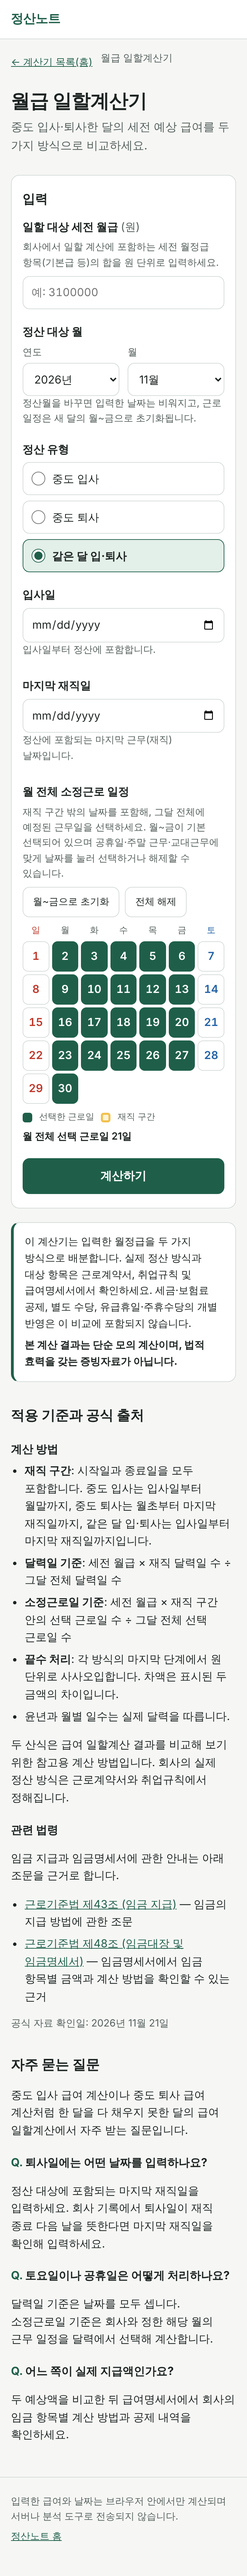
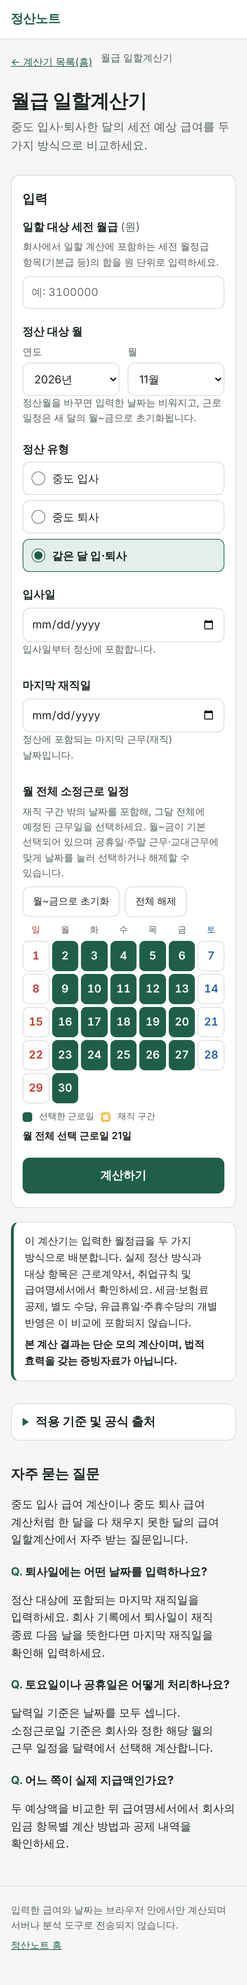
적용 기준·공식 출처를 접이식 영역으로 묶음 (두 계산기)
- '적용 기준 및 공식 출처' details 영역, 기본 접힘, 제목줄 전체 클릭·Enter·Space로 열고 닫기, 화살표 회전
- 주휴수당 결과 안의 근거 접기 영역을 같은 영역으로 통합(이번 판정 규칙은 영역 안에 표시)
- 결과표 산식·판정 이유·면책 문구는 영역 밖 유지, 재계산 시 열림 상태 유지
- 접이식 영역 검수 18항목 추가(기본 접힘·새로고침·클릭·키보드·터치·링크·재계산 유지)

Claude-Session: https://claude.ai/code/session_01Q3BcEdyQ2K5YjfFxHGZibt

diff --git a/site/assets/js/weekly-holiday-page.js b/site/assets/js/weekly-holiday-page.js
@@ -266,6 +266,7 @@ function moveWeek(delta) {
 
 function hideResult() {
   window.clearTimeout(announceTimer);
+  $('basis-body').hidden = true; // 지난 판정의 적용 규칙은 숨기되, 접이식 영역의 열림 상태는 건드리지 않는다
   if (!resultSection.hidden) {
     resultSection.hidden = true;
     resultStatus.textContent = '';
@@ -450,6 +451,7 @@ function renderResult(r) {
     needsBox.hidden = true;
     $('result-summary').textContent = '';
     $('basis-body').innerHTML = '';
+    $('basis-body').hidden = true;
     finishResult(`판정하지 않음. ${r.note}`);
     return;
   }
@@ -520,8 +522,9 @@ function renderResult(r) {
   const used = [...new Set(r.weeks.map((w) => w.rule))];
   if (r.weeks.some((w) => w.amount !== null)) used.push('AMOUNT');
   const ids = [...new Set(used.flatMap((u) => RULES[u].sources))];
+  $('basis-body').hidden = false;
   $('basis-body').innerHTML =
-    `<ul>${used.map((u) => `<li><strong>${u}</strong> ${esc(RULES[u].title)} — ${esc(sourceText(RULES[u].sources))}</li>`).join('')}</ul>` +
+    `<h3>이번 판정에 적용한 규칙</h3><ul>${used.map((u) => `<li><strong>${u}</strong> ${esc(RULES[u].title)} — ${esc(sourceText(RULES[u].sources))}</li>`).join('')}</ul>` +
     `<ul class="sources">${ids.map((id) => `<li><a href="${SOURCES[id].url}" target="_blank" rel="noopener noreferrer">${esc(SOURCES[id].label)}<span class="sr-only"> — 새 창에서 열림</span></a> — ${esc(SOURCES[id].note)}</li>`).join('')}</ul>` +
     `<p class="checked-date">공식 자료 확인일: <time datetime="${CHECKED_DATE}">2026년 11월 21일</time> · 명세: 정산노트 주휴수당 계산기 구현 명세 v0.1</p>`;
 

diff --git a/site/weekly-holiday-pay/index.html b/site/weekly-holiday-pay/index.html
@@ -166,10 +166,6 @@
         <tbody role="rowgroup" id="whp-rows"></tbody>
       </table>
       <p class="disclaimer result-disclaimer">본 계산 결과는 단순 모의 계산이며, 법적 효력을 갖는 증빙자료가 아닙니다.</p>
-      <details class="basis" id="basis">
-        <summary>적용한 판정 규칙과 공식 근거 보기 (확인일 2026년 11월 21일)</summary>
-        <div id="basis-body"></div>
-      </details>
     </section>
 
     <section class="notice" aria-labelledby="notice-title">
@@ -178,8 +174,10 @@
       <p>월급제, 일 단위 계약(일용직), 감시·단속적 근로는 판정 기준이 달라 별도 확인이 필요합니다.</p>
     </section>
 
-    <section class="content" aria-labelledby="basis-title">
-      <h2 id="basis-title">적용 기준과 공식 출처</h2>
+    <details class="content basis-fold" id="basis">
+      <summary class="fold-summary"><h2 id="basis-title">적용 기준 및 공식 출처</h2></summary>
+      <div class="fold-body">
+        <div id="basis-body" class="basis-result" hidden></div>
       <h3>판정 순서</h3>
       <ol class="rule-list">
         <li><strong>1주 근로관계</strong>: 1주는 재직 시작일의 요일부터 7일입니다. 그 주의 7일째 날까지 재직해야 합니다.</li>
@@ -197,7 +195,8 @@
       <h3>공식 출처</h3>
       <ul class="sources" id="source-list"></ul>
       <p class="checked-date">공식 자료 확인일: <time datetime="2026-11-21">2026년 11월 21일</time></p>
-    </section>
+    </div>
+    </details>
 
     <section class="content faq" aria-labelledby="faq-title">
       <h2 id="faq-title">자주 묻는 질문</h2>

diff --git a/site/assets/css/style.css b/site/assets/css/style.css
@@ -377,3 +377,27 @@ input[aria-invalid="true"] { border-color: var(--error); box-shadow: 0 0 0 1px v
 @media (prefers-color-scheme: dark) {
   :root:not([data-theme="light"]) .badge-eligible { color: #0d1a15; }
 }
+
+/* ---------- 적용 기준 및 공식 출처 (접이식) ---------- */
+.basis-fold { margin-top: 32px; border: 1px solid var(--border); border-radius: var(--radius); background: var(--surface); }
+.basis-fold > .fold-summary {
+  display: flex; align-items: center; gap: 10px; min-height: 52px; padding: 12px 16px;
+  cursor: pointer; list-style: none; border-radius: var(--radius);
+  -webkit-tap-highlight-color: transparent; user-select: none;
+}
+.basis-fold > .fold-summary::-webkit-details-marker { display: none; }
+.basis-fold > .fold-summary::before {
+  content: ""; flex: none; width: 0; height: 0;
+  border-style: solid; border-width: 6px 0 6px 9px; border-color: transparent transparent transparent var(--brand);
+  transition: transform .15s;
+}
+.basis-fold[open] > .fold-summary::before { transform: rotate(90deg); }
+.basis-fold > .fold-summary h2 { margin: 0; font-size: 1.1rem; }
+@media (hover: hover) {
+  .basis-fold > .fold-summary:hover { background: var(--brand-soft); }
+}
+.basis-fold[open] > .fold-summary { border-bottom: 1px solid var(--border); border-radius: var(--radius) var(--radius) 0 0; }
+.basis-fold > .fold-body { padding: 4px 16px 16px; }
+.basis-fold .basis-result { margin: 12px 0 4px; padding: 12px; border-radius: 10px; background: var(--brand-soft); font-size: 0.9rem; }
+.basis-fold .basis-result h3 { margin: 0 0 6px; font-size: 0.95rem; }
+.basis-fold .basis-result ul { padding-left: 18px; }

diff --git a/site/salary-proration/index.html b/site/salary-proration/index.html
@@ -183,8 +183,9 @@
       <p class="disclaimer">본 계산 결과는 단순 모의 계산이며, 법적 효력을 갖는 증빙자료가 아닙니다.</p>
     </section>
 
-    <section class="content" aria-labelledby="basis-title">
-      <h2 id="basis-title">적용 기준과 공식 출처</h2>
+    <details class="content basis-fold" id="basis-fold">
+      <summary class="fold-summary"><h2 id="basis-title">적용 기준 및 공식 출처</h2></summary>
+      <div class="fold-body">
       <h3>계산 방법</h3>
       <ul>
         <li><strong>재직 구간</strong>: 시작일과 종료일을 모두 포함합니다. 중도 입사는 입사일부터 월말까지, 중도 퇴사는 월초부터 마지막 재직일까지, 같은 달 입·퇴사는 입사일부터 마지막 재직일까지입니다.</li>
@@ -202,7 +203,8 @@
         <li><a href="https://www.law.go.kr/lsLinkCommonInfo.do?chrClsCd=010202&amp;lsJoLnkSeq=1029728419" target="_blank" rel="noopener noreferrer">근로기준법 제48조 (임금대장 및 임금명세서)<span class="sr-only"> — 새 창에서 열림</span></a> — 임금명세서에서 임금 항목별 금액과 계산 방법을 확인할 수 있는 근거</li>
       </ul>
       <p class="checked-date">공식 자료 확인일: <time datetime="2026-11-21">2026년 11월 21일</time></p>
-    </section>
+    </div>
+    </details>
 
     <section class="content faq" aria-labelledby="faq-title">
       <h2 id="faq-title">자주 묻는 질문</h2>

diff --git a/docs/test-report.md b/docs/test-report.md
@@ -1,7 +1,7 @@
 # 정산노트 검수 결과표
 
-- 실행: 2026-11-21T03:28:23.587Z · 미리보기(site/) · `npm run test:e2e` · Chromium(Playwright) · 시간대 Pacific/Kiritimati(UTC+14)
-- 집계: 통과 86 · 실패 0 · 미확인 3
+- 실행: 2026-11-21T03:52:20.813Z · 미리보기(site/) · `npm run test:e2e` · Chromium(Playwright) · 시간대 Pacific/Kiritimati(UTC+14)
+- 집계: 통과 101 · 실패 0 · 미확인 3
 
 ## 월급 일할계산기 — 필수 검증 사례 5건 (회귀, 브라우저 직접 입력)
 
@@ -119,7 +119,7 @@
 | 월급제: 판정은 하되 예상액은 별도 확인 필요 | 사례 2 입력 + 근무 형태 ‘월급제’ | 지급 대상, 예상액 대신 “별도 확인 필요” 안내 | 지급 대상 · 월급제는 월급에 주휴수당이 포함되는지 계약을 확인해야 해 예상액을 표시하지 않습니다. 별도 확인 필요. · 상단 안내 true | 통과 |
 | 일용직·감시단속적 근로: 별도 확인 필요 | 근무 형태 ‘일 단위 계약(일용직)’으로 판정 | 판정표 대신 “별도 확인 필요” 안내 | 일 단위 계약(일용직)은(는) 주휴수당 판정 기준이 달라 이 계산기의 출시 범위에 포함되지 않습니다. 별도 확인 필요: 근로계약서와 관할 고용노동관서(1350)에서 확인하세요. | 통과 |
 | 결과표 하단 면책 문구 | 사례 2 판정 후 결과표 아래 확인 | “본 계산 결과는 단순 모의 계산이며, 법적 효력을 갖는 증빙자료가 아닙니다.” | 본 계산 결과는 단순 모의 계산이며, 법적 효력을 갖는 증빙자료가 아닙니다. | 통과 |
-| 적용한 공식 근거와 확인일 | 결과 아래 “적용한 판정 규칙과 공식 근거 보기” 펼침 | 적용 규칙(S9·예상액)과 근로기준법 제18조제3항·시행령 별표 2 링크, 확인일 2026년 11월 21일 | S9 지급 요건 충족 — 근로기준법 제18조제3항, 근로기준법 제55조제1항, 근로기준법 시행령 제30조제1항, 근로기준법 시행령 별표 1 AMOUNT 예상액 = 1일 소정근로시간 × 시급 — 근로기준법 시행령 별표 2, 고용노동부 빠른인터넷상담 (2024.1.8.), 고용노동부 빠른인… | 통과 |
+| 적용한 공식 근거와 확인일 | 결과 아래 “적용한 판정 규칙과 공식 근거 보기” 펼침 | 적용 규칙(S9·예상액)과 근로기준법 제18조제3항·시행령 별표 2 링크, 확인일 2026년 11월 21일 | 이번 판정에 적용한 규칙 S9 지급 요건 충족 — 근로기준법 제18조제3항, 근로기준법 제55조제1항, 근로기준법 시행령 제30조제1항, 근로기준법 시행령 별표 1 AMOUNT 예상액 = 1일 소정근로시간 × 시급 — 근로기준법 시행령 별표 2, 고용노동부 빠른인터넷상담 (2024.1.… | 통과 |
 | 키보드만으로 입력·출근 선택·판정 | Tab 이동 → 재직 시작일·시급 입력 → 주마다 근무시간 입력, 출근 여부 Space, [다음 주] Enter → [판정하기] Enter | 사례 2와 같은 결과(4주 지급 대상) | 지급 대상, 지급 대상, 지급 대상, 지급 대상 | 통과 |
 | 포커스 표시(주차 탭·출근 여부) | 주차 탭과 출근 여부 선택지로 키보드 이동 | 포커스된 요소에 테두리 표시 | 탭 solid 3px · 출근 여부  solid 3px | 통과 |
 
@@ -142,6 +142,26 @@
 | 홈 ↔ 주휴수당 계산기 이동 | 홈 “주휴수당 계산기” 카드 클릭 → “← 계산기 목록(홈)” 클릭 | 계산기로 이동 후 홈으로 복귀 | 계산기 열림 → 급여 계산기 모음 \| 정산노트 | 통과 |
 | 모바일 360px 주휴수당 계산기 | 모바일 360px에서 사례 4 입력·판정 | 가로 스크롤 없음, 입력칸·버튼·판정표가 화면 안, 4주 탭이 스크롤 없이 보임 | 입력 화면 넘침 0px, 화면 밖 요소 0개 , 4주 탭 한 화면=true · 결과 화면 넘침 0px | 통과 |
 | 데스크톱 1280px 주휴수당 계산기 | 데스크톱 1280px에서 사례 4 입력·판정 | 가로 스크롤 없음, 입력칸·버튼·판정표가 화면 안, 4주 탭이 스크롤 없이 보임 | 입력 화면 넘침 0px, 화면 밖 요소 0개 , 4주 탭 한 화면=true · 결과 화면 넘침 0px | 통과 |
+
+## 적용 기준 및 공식 출처 — 접이식 영역 (두 계산기)
+
+| 검수 항목 | 입력 또는 재현 방법 | 기대값 | 실제값 | 상태 |
+|---|---|---|---|---|
+| 월급 일할계산기: 제목·기본 접힘·새로고침 후 접힘 | /salary-proration 첫 접속 → 펼침 → 새로고침 | 제목 “적용 기준 및 공식 출처”, 첫 접속 접힘, 새로고침 후 다시 접힘, 접힌 상태에서 확인일·링크 숨김 | 제목 “적용 기준 및 공식 출처” · 첫 접속 접힘(링크 0개 보임) · 펼친 뒤 열림 · 새로고침 후 접힘 | 통과 |
+| 월급 일할계산기: 제목줄 전체 클릭·화살표 방향 | 제목줄 오른쪽 끝(글자 밖)을 클릭 → 다시 클릭 | 열림 ↔ 접힘, 열림일 때 화살표가 오른쪽(▶)에서 아래(▼)로 90° 회전 | 1회 열림(화살표 matrix(0, 1, -1, 0, 0, 0)) · 2회 접힘(화살표 none) | 통과 |
+| 월급 일할계산기: 키보드 Enter·Space | Tab으로 제목줄 포커스 → Enter → Enter → Space → Space | 열림 → 접힘 → 열림 → 접힘, 포커스 테두리 표시 | 열림 → 접힘 → 열림 → 접힘 · 포커스 테두리 solid | 통과 |
+| 월급 일할계산기: 펼친 상태에서 공식 링크 열기 | 펼친 뒤 첫 번째 공식 출처 링크 클릭 | 새 창에서 https://www.law.go.kr/lsLinkCommonInfo.do?chrClsCd=010202&lsJoLnkSeq=1027161983 열림 | https://www.law.go.kr/lsLinkCommonInfo.do?chrClsCd=010202&lsJoLnkSeq=1027161983 “국가법령정보센터 \| 조문정보” | 통과 |
+| 월급 일할계산기: 다시 계산해도 열림 유지·결과는 영역 밖 | 영역 펼침 → 계산 → 입력 수정(결과 숨김) → 다시 계산 | 두 번의 계산 뒤에도 열림 유지, 산식/판정 이유·면책 문구는 접이식 영역 밖에 보임 | 1차 계산 후 열림 · 수정 시 결과 숨김=true · 재계산 후 열림 · 결과·면책 문구 영역 밖=true · 결과 산식/근거 표시=true | 통과 |
+| 월급 일할계산기: 영역을 접어도 결과는 그대로 | 결과 표시 상태에서 영역 접기 | 결과표(산식·판정 이유)와 면책 문구가 계속 보임 | 결과 보임=true | 통과 |
+| 주휴수당 계산기: 제목·기본 접힘·새로고침 후 접힘 | /weekly-holiday-pay 첫 접속 → 펼침 → 새로고침 | 제목 “적용 기준 및 공식 출처”, 첫 접속 접힘, 새로고침 후 다시 접힘, 접힌 상태에서 확인일·링크 숨김 | 제목 “적용 기준 및 공식 출처” · 첫 접속 접힘(링크 0개 보임) · 펼친 뒤 열림 · 새로고침 후 접힘 | 통과 |
+| 주휴수당 계산기: 제목줄 전체 클릭·화살표 방향 | 제목줄 오른쪽 끝(글자 밖)을 클릭 → 다시 클릭 | 열림 ↔ 접힘, 열림일 때 화살표가 오른쪽(▶)에서 아래(▼)로 90° 회전 | 1회 열림(화살표 matrix(0, 1, -1, 0, 0, 0)) · 2회 접힘(화살표 none) | 통과 |
+| 주휴수당 계산기: 키보드 Enter·Space | Tab으로 제목줄 포커스 → Enter → Enter → Space → Space | 열림 → 접힘 → 열림 → 접힘, 포커스 테두리 표시 | 열림 → 접힘 → 열림 → 접힘 · 포커스 테두리 solid | 통과 |
+| 주휴수당 계산기: 펼친 상태에서 공식 링크 열기 | 펼친 뒤 첫 번째 공식 출처 링크 클릭 | 새 창에서 https://www.law.go.kr/법령/근로기준법/제2조 열림 | https://www.law.go.kr/%EB%B2%95%EB%A0%B9/%EA%B7%BC%EB%A1%9C%EA%B8%B0%EC%A4%80%EB%B2%95/%EC%A0%9C2%EC%A1%B0 “근로기준법 > 법령 > 본문 \| 국가법령정보센터” | 통과 |
+| 주휴수당 계산기: 다시 계산해도 열림 유지·결과는 영역 밖 | 영역 펼침 → 계산 → 입력 수정(결과 숨김) → 다시 계산 | 두 번의 계산 뒤에도 열림 유지, 산식/판정 이유·면책 문구는 접이식 영역 밖에 보임 | 1차 계산 후 열림 · 수정 시 결과 숨김=true · 재계산 후 열림 · 결과·면책 문구 영역 밖=true · 결과 산식/근거 표시=true | 통과 |
+| 주휴수당 계산기: 영역을 접어도 결과는 그대로 | 결과 표시 상태에서 영역 접기 | 결과표(산식·판정 이유)와 면책 문구가 계속 보임 | 결과 보임=true | 통과 |
+| 주휴수당 계산기: 이번 판정의 적용 규칙 | 판정 후 영역 펼침 → 입력 수정 | 영역 안에 “이번 판정에 적용한 규칙” 표시, 수정하면 그 목록만 숨기고 영역은 열린 채 유지 | 표시=true(“이번 판정에 적용한 규칙”) · 수정 후 숨김=true · 영역 열림 | 통과 |
+| 월급 일할계산기: 모바일 360px 터치 | 360px 터치 화면에서 제목줄 탭 → 다시 탭 | 열림 → 접힘, 제목줄 높이 ≥ 44px, 가로 스크롤 없음 | 열림(링크 2개) → 접힘 · 제목줄 52px · 넘침 0px | 통과 |
+| 주휴수당 계산기: 모바일 360px 터치 | 360px 터치 화면에서 제목줄 탭 → 다시 탭 | 열림 → 접힘, 제목줄 높이 ≥ 44px, 가로 스크롤 없음 | 열림(링크 13개) → 접힘 · 제목줄 52px · 넘침 0px | 통과 |
 
 ## 급여·날짜 외부 전송 여부
 
